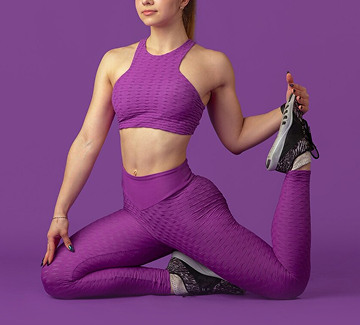
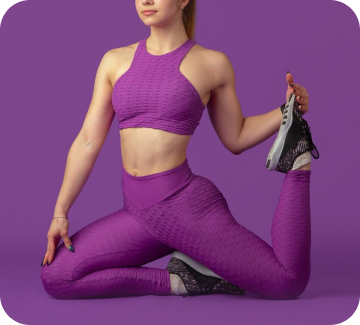
fixed

diff --git a/src/components/CoursePage/CoursePage.tsx b/src/components/CoursePage/CoursePage.tsx
@@ -10,12 +10,12 @@ import {
 import type { Course } from '@/types';
 import styles from './CoursePage.module.css';
 
-const courseImages: Record<string, string> = {
-  Yoga: '/images/yoga.png',
-  Stretching: '/images/stretching.png',
-  Fitness: '/images/fitness.png',
-  StepAirobic: '/images/step-aerobics.png',
-  BodyFlex: '/images/bodyflex.png',
+const courseHeroImages: Record<string, string> = {
+  Yoga: '/images/course/yoga-hero.png',
+  Stretching: '/images/course/stretching-hero.png',
+  Fitness: '/images/course/fitness-hero.png',
+  StepAirobic: '/images/course/step-aerobics-hero.png',
+  BodyFlex: '/images/course/bodyflex-hero.png',
 };
 
 type CoursePageProps = {
@@ -35,7 +35,8 @@ export default function CoursePageView({ course }: CoursePageProps) {
   const [isPending, setIsPending] = useState(false);
 
   const isInProfile = Boolean(user?.selectedCourses?.includes(course._id));
-  const heroSrc = courseImages[course.nameEN] ?? '/images/yoga.png';
+  const heroSrc =
+    courseHeroImages[course.nameEN] ?? '/images/course/yoga-hero.png';
   const suitability = course.fitting.slice(0, 3);
   const directions = course.directions;
   const benefits =
@@ -75,12 +76,15 @@ export default function CoursePageView({ course }: CoursePageProps) {
       <section className={styles.hero}>
         <Image
           src={heroSrc}
-          alt={course.nameRU}
+          alt=""
           fill
+          sizes="(max-width: 1200px) 100vw, 1160px"
+          quality={100}
+          unoptimized
           className={styles.heroImage}
           priority
         />
-        <h1 className={styles.heroTitle}>{course.nameRU}</h1>
+        <h1 className={styles.srOnly}>{course.nameRU}</h1>
       </section>
 
       {suitability.length > 0 && (
@@ -143,6 +147,8 @@ export default function CoursePageView({ course }: CoursePageProps) {
             alt=""
             width={520}
             height={370}
+            quality={100}
+            unoptimized
             className={styles.promoSwoosh}
           />
           <Image
@@ -150,6 +156,8 @@ export default function CoursePageView({ course }: CoursePageProps) {
             alt=""
             width={360}
             height={400}
+            quality={100}
+            unoptimized
             className={styles.promoMan}
           />
         </div>

diff --git a/src/components/CoursePage/CoursePage.module.css b/src/components/CoursePage/CoursePage.module.css
@@ -19,16 +19,16 @@
   object-position: center top;
 }
 
-.heroTitle {
+.srOnly {
   position: absolute;
-  top: 30px;
-  left: 30px;
-  margin: 0;
-  font-size: 60px;
-  font-weight: 500;
-  line-height: 100%;
-  color: #000000;
-  z-index: 1;
+  width: 1px;
+  height: 1px;
+  padding: 0;
+  margin: -1px;
+  overflow: hidden;
+  clip: rect(0, 0, 0, 0);
+  white-space: nowrap;
+  border: 0;
 }
 
 .sectionTitle {
@@ -239,12 +239,6 @@
   .hero {
     margin-top: 40px;
     height: 325px;
-  }
-
-  .heroTitle {
-    font-size: 32px;
-    top: 20px;
-    left: 20px;
   }
 
   .sectionTitle {

diff --git a/src/app/profile/page.tsx b/src/app/profile/page.tsx
@@ -216,6 +216,9 @@ export default function ProfilePage() {
                       alt={card.course.nameRU}
                       width={360}
                       height={325}
+                      sizes="360px"
+                      quality={100}
+                      unoptimized
                       className={styles.courseImage}
                     />
                     <button

diff --git a/src/components/Card/Card.tsx b/src/components/Card/Card.tsx
@@ -48,6 +48,9 @@ export default function Card({ course }: CardProps) {
           alt={course.nameRU}
           width={360}
           height={325}
+          sizes="360px"
+          quality={100}
+          unoptimized
           className={styles.image}
         />
         <button

diff --git a/next.config.ts b/next.config.ts
@@ -1,8 +1,11 @@
 import type { NextConfig } from "next";
 
 const nextConfig: NextConfig = {
-  /* config options here */
   reactCompiler: true,
+  images: {
+    qualities: [75, 100],
+    formats: ["image/avif", "image/webp"],
+  },
 };
 
 export default nextConfig;

diff --git a/src/components/Card/Card.module.css b/src/components/Card/Card.module.css
@@ -36,6 +36,7 @@
   width: 100%;
   height: 100%;
   object-fit: cover;
+  object-position: center top;
   display: block;
   border-radius: 30px 30px 0 0;
 }
